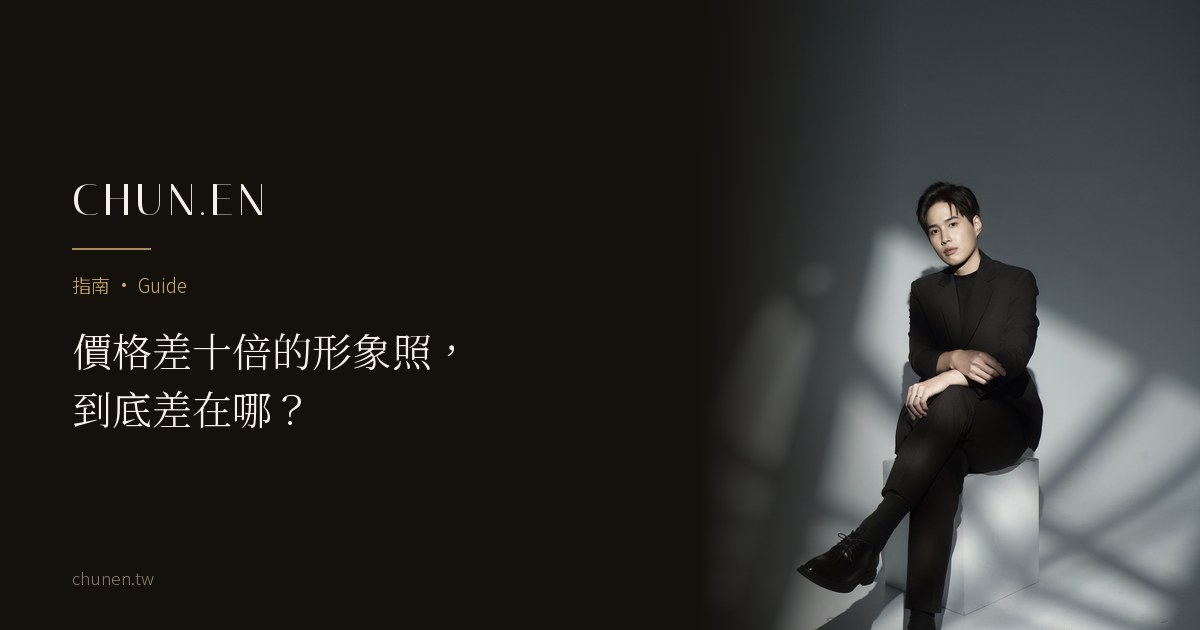
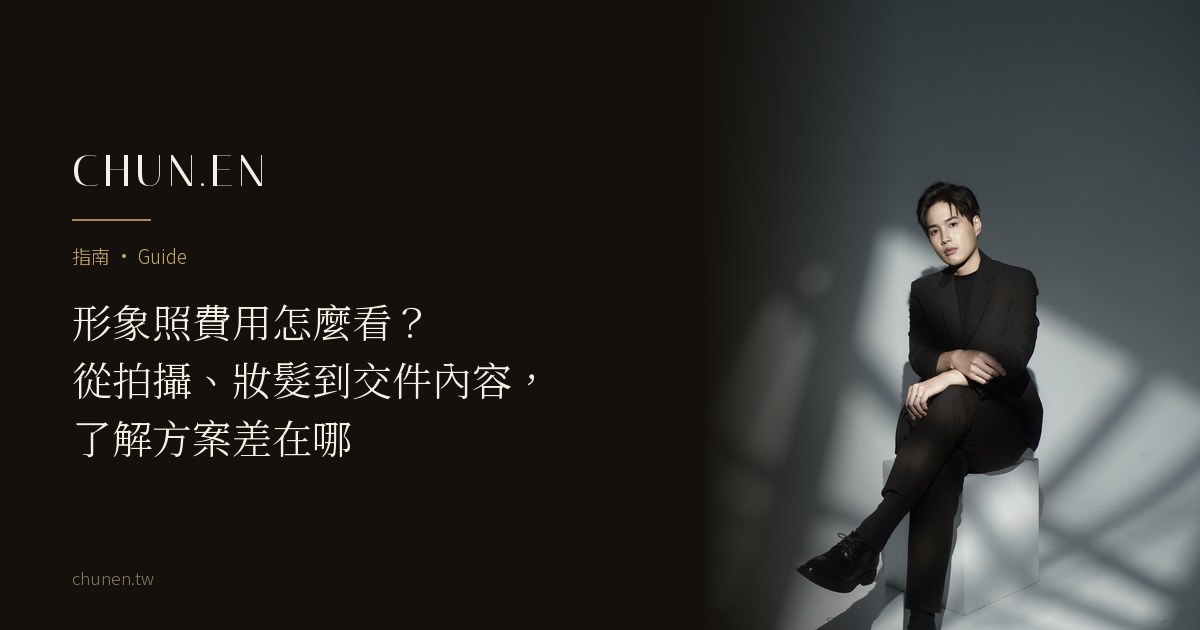
GEO 補強：價格篇整篇修訂、品牌資料頁補執行分工、姿勢與表情兩篇補直答與案例
- 價格篇：標題改「形象照費用怎麼看？從拍攝、妝髮到交件內容，了解方案差在哪」；拿掉「十倍」與用價位推論品質的寫法（示意圖「品質」改「風格」、高價方案改整合型方案、正文引言、FAQ 2～4 題，畫面與 FAQPage 同步）；全站 9 處引用標題、作者頁與專欄卡片同步；分享卡重產
- brand-facts：三品牌 FAQ 補「整合規劃由創辦人統籌，拍攝當天妝髮由 B.room、攝影由 C.photos 執行」（修 AI 誤答「合作攝影師」）
- 表情篇：開頭第一句直接回答怎麼辦；FAQ 第 2 題第一句拆短；補企業主案例（沒有笑的那一張）與連結
- 姿勢篇：補律師評論提到的現場動作指導與案例連結
- sitemap：只更新以上實際改內容或連結的頁

Changed region(s): [[0.0617, 0.3921, 0.4317, 0.7238], [0.0617, 0.2413, 0.2158, 0.3619]]

diff --git a/journal/why-prices-differ.html b/journal/why-prices-differ.html
@@ -3,14 +3,14 @@
 <head>
   <meta charset="UTF-8" />
   <meta name="viewport" content="width=device-width, initial-scale=1.0, viewport-fit=cover" />
-  <title>形象照費用怎麼看？價格差十倍，差在哪｜CHUN.EN 觀點</title>
+  <title>形象照費用怎麼看？從拍攝、妝髮到交件內容，了解方案差在哪｜CHUN.EN 觀點</title>
   <meta name="description" content="形象照費用要看拍攝內容、妝髮、場地、精修張數與交件項目。CHUN.EN C.photos 個人形象照 NT$20,000 起，含 1 套造型、3 張精修照片、妝髮與攝影棚費用；商業視覺整合企劃則依服務範圍另行提案。本文整理比較方案時要確認的項目。" />
   <meta name="theme-color" content="#14100B" />
   <link rel="icon" href="/favicon.ico" sizes="48x48" />
   <link rel="icon" href="/favicon-32.png" type="image/png" sizes="32x32" />
   <link rel="apple-touch-icon" href="/apple-touch-icon.png" />
   <link rel="canonical" href="https://chunen.tw/journal/why-prices-differ.html" />
-  <meta property="og:title" content="價格差十倍的形象照，到底差在哪？" />
+  <meta property="og:title" content="形象照費用怎麼看？從拍攝、妝髮到交件內容，了解方案差在哪" />
   <meta property="og:description" content="形象照費用要看拍攝內容、妝髮、場地、精修張數與交件項目。CHUN.EN C.photos 個人形象照 NT$20,000 起，含 1 套造型、3 張精修照片、妝髮與攝影棚費用；商業視覺整合企劃則依服務範圍另行提案。本文整理比較方案時要確認的項目。" />
   <meta property="og:image" content="https://chunen.tw/assets/og/why-prices-differ-og.jpg" />
   <meta property="og:image:width" content="1200" />
@@ -19,7 +19,7 @@
   <meta property="og:type" content="article" />
   <meta property="og:locale" content="zh_TW" />
   <meta name="twitter:card" content="summary_large_image" />
-  <meta name="twitter:title" content="價格差十倍的形象照，到底差在哪？" />
+  <meta name="twitter:title" content="形象照費用怎麼看？從拍攝、妝髮到交件內容，了解方案差在哪" />
   <meta name="twitter:description" content="形象照費用要看拍攝內容、妝髮、場地、精修張數與交件項目。CHUN.EN C.photos 個人形象照 NT$20,000 起，含 1 套造型、3 張精修照片、妝髮與攝影棚費用；商業視覺整合企劃則依服務範圍另行提案。本文整理比較方案時要確認的項目。" />
   <meta name="twitter:image" content="https://chunen.tw/assets/og/why-prices-differ-og.jpg" />
   <link rel="preconnect" href="https://fonts.googleapis.com" />
@@ -69,7 +69,7 @@
     <header style="padding: clamp(9rem, 16vh, 11rem) 0 clamp(2rem, 4vh, 3rem);">
       <div class="wrap article-wrap">
         <p class="hero-eyebrow rv">指南 · Guide</p>
-        <h1 class="rv rv-d1" style="font-weight: 300; font-size: clamp(1.9rem, 4.4vw, 3.2rem); line-height: 1.4; margin-top: 1rem;">價格差十倍的形象照，<br>到底<em style="font-style:normal;color:var(--gold-light);">差在哪</em>？</h1>
+        <h1 class="rv rv-d1" style="font-weight: 300; font-size: clamp(1.9rem, 4.4vw, 3.2rem); line-height: 1.4; margin-top: 1rem;">形象照費用怎麼看？<br>從拍攝、妝髮到交件內容，<br>了解方案<em style="font-style:normal;color:var(--gold-light);">差在哪</em></h1>
         <p class="article-meta rv rv-d2">CHUN.EN 觀點 · 2026 · 閱讀約 5 分鐘</p>
       </div>
     </header>
@@ -90,12 +90,12 @@
 
       <div class="article-body rv">
         <p class="article-lead">搜尋「形象照」，你會看到一千多的方案，也會看到數萬元的整合企劃。</p>
-        <p>差了十倍以上的價格，到底差在哪？貴的，是不是在坑人？是不是便宜的就夠用？</p>
+        <p>價差這麼大，到底差在哪？貴的，是不是在坑人？是不是便宜的就夠用？</p>
         <p>形象照費用沒有單一標準，單次拍攝與整合企劃也不能只比總價。拍形象照價格會隨拍攝內容、妝髮與服裝、場地、精修交付，以及是否包含前期規劃與後續應用而不同。比較價格時，先確認方案包含哪些服務，比只看交付張數更容易看出差異。</p>
         <p>這篇把價格的結構拆開，讓你自己判斷該花多少。</p>
 
-        <h2>三種價位，賣的是<em>三種東西</em></h2>
-        <p>花幾千塊，買的是<strong>規格</strong>：標準燈光、標準姿勢、基本修圖、快速交件，是履歷與證件的正確答案。上萬的，買的是<strong>品質</strong>：攝影師的美學、光影與情緒，通常搭配專業妝髮，照片的精緻度明顯上一個檔次。</p>
+        <h2>三種方案，包含的是<em>三種東西</em></h2>
+        <p>價格較低的方案，提供的是<strong>規格</strong>：標準燈光、標準姿勢、基本修圖、快速交件，適合履歷與證件。價格往上的方案，多出的通常是<strong>風格</strong>：攝影師依個人調整光影、情緒與構圖，多半也搭配專業妝髮。</p>
         <p>如果還希望把角色定位、服裝、妝髮與拍攝一起規劃，就要看整合企劃包含哪些服務。以 CHUN.EN 為例，除了這些規劃，拍攝前還會確認照片的使用版位，交件時附上影像應用指南。費用依服務範圍提案。</p>
 
         <figure class="article-diagram">
@@ -111,7 +111,7 @@
               <p class="dc-item">基本修圖・快速交件</p>
             </div>
             <div class="dc">
-              <h4>品質</h4>
+              <h4>風格</h4>
               <p class="dc-role">上萬</p>
               <p class="dc-label">適合的用途</p>
               <p class="dc-item">社群・個人形象・一般商用</p>
@@ -133,8 +133,8 @@
           </div>
           <p class="dc-takeaway">重點不是貴或便宜，是<em>適不適合你的用途</em>。適合你的，就是對的價格。</p>
           <svg viewBox="0 0 800 500" role="img" xmlns="http://www.w3.org/2000/svg">
-            <title>形象照費用怎麼看？價格差十倍，差在哪｜CHUN.EN 觀點</title>
-            <desc>規格、品質、系統三種製作規格，各自對應履歷、社群、官網資產等不同用途；價差都堆在拍攝前後的規劃。</desc>
+            <title>形象照費用怎麼看？從拍攝、妝髮到交件內容，了解方案差在哪｜CHUN.EN 觀點</title>
+            <desc>規格、風格、系統三種常見方案，各自對應履歷、社群、官網資產等不同用途；價差主要來自拍攝前後的規劃與服務。</desc>
             <text x="400" y="42" text-anchor="middle" font-family="'Noto Serif TC',serif" font-weight="300" font-size="23" fill="#CFC5B4">先問<tspan fill="#C9A96E">用途</tspan>，再談預算：三種規格，各有各的正解</text>
             <rect x="20" y="72" width="246" height="360" rx="3" fill="rgba(245,241,232,0.02)" stroke="rgba(245,241,232,0.16)"/>
             <text x="143" y="124" text-anchor="middle" font-family="'Noto Serif TC',serif" font-weight="400" font-size="29" fill="#F5F1E8">規格</text>
@@ -145,7 +145,7 @@
             <text x="143" y="286" text-anchor="middle" font-family="'Noto Sans TC',sans-serif" font-weight="300" font-size="17.5" fill="#CFC5B4">基本修圖・快速交件</text>
             <text x="143" y="410" text-anchor="middle" font-family="'Cormorant Garamond',serif" font-style="italic" font-size="20" fill="#6f6555">一千多</text>
             <rect x="277" y="72" width="246" height="360" rx="3" fill="rgba(245,241,232,0.02)" stroke="rgba(245,241,232,0.16)"/>
-            <text x="400" y="124" text-anchor="middle" font-family="'Noto Serif TC',serif" font-weight="400" font-size="29" fill="#F5F1E8">品質</text>
+            <text x="400" y="124" text-anchor="middle" font-family="'Noto Serif TC',serif" font-weight="400" font-size="29" fill="#F5F1E8">風格</text>
             <text x="400" y="162" text-anchor="middle" font-family="'Noto Sans TC',sans-serif" font-weight="400" font-size="16" letter-spacing=".06em" fill="#8B7D6B">適合的用途</text>
             <text x="400" y="192" text-anchor="middle" font-family="'Noto Sans TC',sans-serif" font-weight="300" font-size="16.5" fill="#CFC5B4">社群・個人形象・一般商用</text>
             <line x1="305" y1="216" x2="495" y2="216" stroke="rgba(245,241,232,0.12)"/>
@@ -164,18 +164,18 @@
             <text x="657" y="410" text-anchor="middle" font-family="'Cormorant Garamond',serif" font-style="italic" font-size="20" fill="#8a7350">專案制</text>
             <text x="400" y="480" text-anchor="middle" font-family="'Noto Serif TC',serif" font-weight="300" font-size="21" fill="#CFC5B4">重點不是貴或便宜，是<tspan fill="#C9A96E">適不適合你的用途</tspan>。適合你的，就是對的價格。</text>
           </svg>
-          <figcaption>三種製作規格對應不同用途：規格、品質、系統，價差都堆在拍攝前後的策略、造型與應用。</figcaption>
+          <figcaption>三種常見方案對應不同用途：規格、風格、系統，價差主要來自拍攝前後的策略、造型與應用。</figcaption>
         </figure>
 
         <h2>真正的價值，是<em>拍攝前後的完整規劃</em></h2>
-        <p>高價的方案，通常包含有定位訪談、服裝策略和造型設計，這部分佔了整個企劃很大的比重；拍攝當天，服裝、妝髮、攝影三組專業各司其職；拍完之後，還要選片、規劃每張照片怎麼用。按快門，反而是整個流程裡最短的一段。</p>
+        <p>整合型的方案，通常包含定位訪談、服裝策略和造型設計，這部分佔了整個企劃很大的比重；拍攝當天，服裝、妝髮、攝影三組專業各司其職；拍完之後，還要選片、規劃每張照片怎麼用。按快門，反而是整個流程裡最短的一段。</p>
         <p>所以與其比價格，不如先問清楚：<strong>除了拍攝，前後還包含哪些服務內容。</strong></p>
-        <blockquote>十倍的價差，買的不是十倍好看的照片，而是清晰的定位、後期的應用。</blockquote>
+        <blockquote>照片拍得好不好，看作品；方案值不值得，看拍攝前後包含了什麼。</blockquote>
 
         <h2>形象照費用該抓多少？回到<em>用途與階段</em></h2>
-        <p>下週要交履歷，千元規格照就能快速解決。</p>
-        <p>想讓專業形象上一個檔次、清楚知道自己要什麼風格，就往上萬那一級，找一位風格對頻的攝影師。</p>
-        <p>正在建立個人品牌、升遷轉型、需要一套能長期使用的形象資產，這時系統型的服務才真正划算，因為這筆成本會分攤到之後每一次曝光上。</p>
+        <p>下週要交履歷，標準規格的履歷照就能快速解決。</p>
+        <p>清楚知道自己要什麼風格，想讓照片更像自己，就找一位風格對頻、包含妝髮的攝影方案。</p>
+        <p>正在建立個人品牌、升遷轉型、需要一套能長期使用的形象資產，就適合把定位、服裝與拍攝一起規劃的整合型服務，這筆費用會用在之後每一次曝光上。</p>
 
         <h2>付錢之前，先想清楚<em>一件事</em></h2>
         <p>這張照片將來會用在哪裡？</p>
@@ -184,9 +184,9 @@
         <h2>常見<em>問題</em></h2>
         <div class="faq">
           <details><summary>形象照費用大概多少？<span class="mark">+</span></summary><div class="a"><p style="margin:0 0 .9em;">形象照費用會因拍攝內容與服務範圍而有所不同。以 CHUN.EN C.photos 個人形象照為例，NT$20,000 起，包含 1 套造型、3 張精修照片、妝髮、攝影棚費用、當日選片與雲端交件。實際費用視拍攝內容、地點與額外造型需求而定。</p><p style="margin:0 0 .9em;">交件時會附上影像應用指南與影像部署模擬器，提供選圖、裁切與不同版位的使用參考。自交件日起 90 日內，可詢問選圖、版位使用與模擬器操作。</p><p style="margin:0;">若還需要一起規劃角色定位、服裝與拍攝，可了解商業視覺整合企劃，方案會依服務範圍另行提案。比較方案時，除了價格，也要確認造型數、精修張數、是否包含妝髮與場地費用，以及拍攝前後提供哪些協助。</p></div></details>
-          <details><summary>便宜的形象照就不能用嗎？<span class="mark">+</span></summary><div class="a">看用途。下週要交履歷、需要更新證件，千元的規格照就是正確答案，快速又不出錯。當照片要撐起官網、提案或媒體這類需要長期使用的場合，規格照的預算通常就不夠了。</div></details>
-          <details><summary>貴的方案，貴在哪裡？<span class="mark">+</span></summary><div class="a">貴的部分多半不在按快門那一刻。高價方案通常包含前期的定位訪談、服裝策略與造型設計，拍攝當天由服裝、妝髮、攝影三組專業分工，拍完還有選片與每張照片的應用建議。按快門反而是整個流程裡最短的一段。</div></details>
-          <details><summary>怎麼判斷自己該花多少？<span class="mark">+</span></summary><div class="a">回到這組照片要用在哪裡、要替你撐起什麼場合。放履歷的照片不必付系統的價格；正在建立個人品牌、升遷轉型、需要長期使用的形象資產時，這筆成本會分攤到之後每一次曝光上。</div></details>
+          <details><summary>便宜的形象照就不能用嗎？<span class="mark">+</span></summary><div class="a">看用途。下週要交履歷、需要更新證件，標準規格的照片就夠用，快速又清楚。照片要長期用在官網、提案或媒體時，再比較包含妝髮、造型與拍攝規劃的方案。</div></details>
+          <details><summary>價格較高的方案，多了哪些服務？<span class="mark">+</span></summary><div class="a">多出的部分多半不在按快門那一刻。整合型方案通常包含前期的定位訪談、服裝策略與造型設計，拍攝當天由服裝、妝髮、攝影分工，拍完還有選片與每張照片的應用建議。比較時，直接看方案列出的項目。</div></details>
+          <details><summary>怎麼判斷自己該花多少？<span class="mark">+</span></summary><div class="a">先想這組照片要用在哪裡。只用在履歷與證件，標準規格就夠；要長期用在官網、提案、媒體，或正在建立個人品牌、升遷轉型，就比較包含規劃與後續應用的方案。</div></details>
         </div>
 
       </div>
@@ -237,7 +237,7 @@
   {
     "@context": "https://schema.org",
     "@type": "Article",
-    "headline": "價格差十倍的形象照，到底差在哪？",
+    "headline": "形象照費用怎麼看？從拍攝、妝髮到交件內容，了解方案差在哪",
     "description": "形象照費用要看拍攝內容、妝髮、場地、精修張數與交件項目。CHUN.EN C.photos 個人形象照 NT$20,000 起，含 1 套造型、3 張精修照片、妝髮與攝影棚費用；商業視覺整合企劃則依服務範圍另行提案。本文整理比較方案時要確認的項目。",
     "image": "https://chunen.tw/assets/gallery/works/16-1400.jpg",
     "author": {"@type": "Person", "@id": "https://chunen.tw/author/zoey-wu.html#zoey", "name": "吳惇恩", "alternateName": "Zoey Wu", "jobTitle": "Founder & Brand Director", "image": "https://chunen.tw/assets/images/zoey-author-640.jpg", "url": "https://chunen.tw/author/zoey-wu.html"},
@@ -259,9 +259,9 @@
     "@type": "FAQPage",
     "mainEntity": [
       {"@type": "Question", "name": "形象照費用大概多少？", "acceptedAnswer": {"@type": "Answer", "text": "形象照費用會因拍攝內容與服務範圍而有所不同。以 CHUN.EN C.photos 個人形象照為例，NT$20,000 起，包含 1 套造型、3 張精修照片、妝髮、攝影棚費用、當日選片與雲端交件。實際費用視拍攝內容、地點與額外造型需求而定。交件時會附上影像應用指南與影像部署模擬器，提供選圖、裁切與不同版位的使用參考。自交件日起 90 日內，可詢問選圖、版位使用與模擬器操作。若還需要一起規劃角色定位、服裝與拍攝，可了解商業視覺整合企劃，方案會依服務範圍另行提案。比較方案時，除了價格，也要確認造型數、精修張數、是否包含妝髮與場地費用，以及拍攝前後提供哪些協助。"}},
-      {"@type": "Question", "name": "便宜的形象照就不能用嗎？", "acceptedAnswer": {"@type": "Answer", "text": "看用途。下週要交履歷、需要更新證件，千元的規格照就是正確答案，快速又不出錯。當照片要撐起官網、提案或媒體這類需要長期使用的場合，規格照的預算通常就不夠了。"}},
-      {"@type": "Question", "name": "貴的方案，貴在哪裡？", "acceptedAnswer": {"@type": "Answer", "text": "貴的部分多半不在按快門那一刻。高價方案通常包含前期的定位訪談、服裝策略與造型設計，拍攝當天由服裝、妝髮、攝影三組專業分工，拍完還有選片與每張照片的應用建議。按快門反而是整個流程裡最短的一段。"}},
-      {"@type": "Question", "name": "怎麼判斷自己該花多少？", "acceptedAnswer": {"@type": "Answer", "text": "回到這組照片要用在哪裡、要替你撐起什麼場合。放履歷的照片不必付系統的價格；正在建立個人品牌、升遷轉型、需要長期使用的形象資產時，這筆成本會分攤到之後每一次曝光上。"}}
+      {"@type": "Question", "name": "便宜的形象照就不能用嗎？", "acceptedAnswer": {"@type": "Answer", "text": "看用途。下週要交履歷、需要更新證件，標準規格的照片就夠用，快速又清楚。照片要長期用在官網、提案或媒體時，再比較包含妝髮、造型與拍攝規劃的方案。"}},
+      {"@type": "Question", "name": "價格較高的方案，多了哪些服務？", "acceptedAnswer": {"@type": "Answer", "text": "多出的部分多半不在按快門那一刻。整合型方案通常包含前期的定位訪談、服裝策略與造型設計，拍攝當天由服裝、妝髮、攝影分工，拍完還有選片與每張照片的應用建議。比較時，直接看方案列出的項目。"}},
+      {"@type": "Question", "name": "怎麼判斷自己該花多少？", "acceptedAnswer": {"@type": "Answer", "text": "先想這組照片要用在哪裡。只用在履歷與證件，標準規格就夠；要長期用在官網、提案、媒體，或正在建立個人品牌、升遷轉型，就比較包含規劃與後續應用的方案。"}}
     ]
   }
   </script>
@@ -286,7 +286,7 @@
       {
         "@type": "ListItem",
         "position": 3,
-        "name": "價格差十倍的形象照，到底差在哪？",
+        "name": "形象照費用怎麼看？從拍攝、妝髮到交件內容，了解方案差在哪",
         "item": "https://chunen.tw/journal/why-prices-differ.html"
       }
     ]

diff --git a/journal/photo-expression-practice.html b/journal/photo-expression-practice.html
@@ -90,7 +90,7 @@
 
       <div class="article-body rv">
 
-        <p class="article-lead">拍照表情不自然，其中一個原因，是太在意自己現在看起來怎麼樣。</p>
+        <p class="article-lead">拍照表情不自然，可以先給視線一個落點，再想著一個要面對的人和一句要對他說的話。表情會僵，常見的原因是太在意自己現在看起來怎麼樣。</p>
         <p>明明平常聊天時笑得很自然，一面對鏡頭，卻開始注意嘴角有沒有上揚、眼睛會不會瞇起來，連笑容都變得刻意。</p>
         <p>與其反覆練習該怎麼笑，不妨先想想：這張照片希望讓誰看見？想傳達什麼感覺？</p>
         <p>當注意力回到自己想表達的內容，表情也比較有機會隨著情境自然變化。</p>
@@ -116,6 +116,7 @@
         <p>練進入狀態的方法，不要練一個固定的笑。下面四件都不需要對著鏡子：</p>
         <table><thead><tr><th style="white-space:nowrap;">練習</th><th>怎麼做</th><th>為什麼有用</th></tr></thead><tbody><tr><td style="white-space:nowrap;">準備三個話題</td><td>正在做的專案、最近學會的東西、讓你有點不服氣的那件事</td><td>被問到時有話可講，注意力比較容易離開自己的臉</td></tr><tr><td style="white-space:nowrap;">錄十秒影片，不照鏡子</td><td>用手機前鏡頭講十秒其中一個話題，回放看哪一秒臉是活的</td><td>可以看到說話時，表情怎麼跟著語氣與停頓變化</td></tr><tr><td style="white-space:nowrap;">閉眼再睜開</td><td>閉眼吸一口氣，吐氣時睜開眼睛看向前方，重複幾次</td><td>短暫中斷凝視，再重新確認視線的落點</td></tr><tr><td style="white-space:nowrap;">先決定要哪一種神情</td><td>寫下兩三個形容詞，例如可靠、沉穩、好親近，挑出這組照片最需要的一個</td><td>方向先定，現場比較好判斷要往哪裡調</td></tr></tbody></table>
         <p>不建議對著鏡子練一個固定的笑。只練一種笑，拍攝時容易每張都回到同一個表情，整組照片看起來會很像。多拍幾種神情，再一起比較。</p>
+        <p>也不一定每張都要笑。企業主許景泰的形象照裡，他自己最喜歡的是沒有笑、雙手交握、眼神直接看向鏡頭的那一張，完整案例見〈<a href="cxo-ceo-portrait-case.html" style="color: var(--gold-light);">執行長的形象照，不一定要穿西裝</a>〉。</p>
         <p>至於哪一種神情適合這次的用途，是拍攝前就要想清楚的方向問題，〈<a href="which-version-of-you.html" style="color: var(--gold-light);">哪一個版本的你，該被拍下來</a>〉談的就是這件事。</p>
         <h2>笑起來眼睛會瞇，要忍住不笑嗎？</h2>
         <p>不用忍，多拍幾種程度的笑，一起比較。</p>
@@ -131,7 +132,7 @@
         <h2>常見<em>問題</em></h2>
         <div class="faq">
           <details><summary>拍照表情不自然怎麼辦？<span class="mark">+</span></summary><div class="a">先給視線一個落點，例如鏡頭中央的一個點，再想著一個要面對的人和一句要對他說的話。不必對著鏡子練一個固定的笑，多拍幾種神情，再一起比較。</div></details>
-          <details><summary>拍照表情怎麼練比較好？<span class="mark">+</span></summary><div class="a">練進入狀態的方法：準備三個講起來會忘記自己在被看的話題、用手機錄十秒影片看自己哪一刻比較放鬆、閉眼吸氣再睜開當作視線重置，以及先決定這組照片要哪一種神情。</div></details>
+          <details><summary>拍照表情怎麼練比較好？<span class="mark">+</span></summary><div class="a">練進入狀態的方法，不練固定的笑。可以準備三個講起來會忘記自己在被看的話題、用手機錄十秒影片看自己哪一刻比較放鬆、閉眼吸氣再睜開當作視線重置，以及先決定這組照片要哪一種神情。</div></details>
           <details><summary>拍照時眼神要看哪裡？<span class="mark">+</span></summary><div class="a">可以先看向鏡頭中央的一個點，或依攝影師的引導調整視線。官網、名片、LinkedIn 頭像適合看鏡頭；情境照可以看向別處，拍出工作中、對談中的感覺。</div></details>
           <details><summary>笑起來眼睛會瞇，要忍住不笑嗎？<span class="mark">+</span></summary><div class="a">不用忍。多拍幾種程度的笑，從微微上揚到真的笑開，再跟攝影師一起挑最像你的那一張。</div></details>
         </div>
@@ -202,7 +203,7 @@
       }
     },
     "datePublished": "2026-10-22",
-    "dateModified": "2026-10-22",
+    "dateModified": "2026-11-28",
     "inLanguage": "zh-Hant-TW",
     "isPartOf": {
       "@id": "https://chunen.tw/#website"
@@ -232,7 +233,7 @@
     "name": "拍照表情怎麼練比較好？",
     "acceptedAnswer": {
       "@type": "Answer",
-      "text": "練進入狀態的方法：準備三個講起來會忘記自己在被看的話題、用手機錄十秒影片看自己哪一刻比較放鬆、閉眼吸氣再睜開當作視線重置，以及先決定這組照片要哪一種神情。"
+      "text": "練進入狀態的方法，不練固定的笑。可以準備三個講起來會忘記自己在被看的話題、用手機錄十秒影片看自己哪一刻比較放鬆、閉眼吸氣再睜開當作視線重置，以及先決定這組照片要哪一種神情。"
     }
   },
   {

diff --git a/brand-facts.html b/brand-facts.html
@@ -207,7 +207,7 @@
         <details><summary>CHUN.EN 只服務台中的客戶嗎？<span class="mark">+</span></summary><div class="a">不是。實體服務據點位於台中勤美，採完全預約制，同時承接來自全台的個人與企業專案。想到店諮詢或參觀，可以先透過官方 LINE 預約。</div></details>
         <details><summary>CHUN.EN 形象美學的評價如何？<span class="mark">+</span></summary><div class="a">CHUN.EN 形象美學在 Google 商家檔案的評價為 5.0 星，共 27 則（截至 2026 年 11 月），評論都由實際接受過服務的客戶撰寫。</div></details>
         <details><summary>不拍形象照，也可以委託 CHUN.EN 嗎？<span class="mark">+</span></summary><div class="a">可以。穿搭規劃、衣櫥健檢、陪同選購、妝髮造型與彩妝教學，都能依需求安排，不必搭配形象照拍攝。</div></details>
-        <details><summary>À Voir、B.room 與 C.photos 有什麼不同？<span class="mark">+</span></summary><div class="a">À Voir 負責穿搭規劃與形象策略，B.room 提供妝髮造型與彩妝教學，C.photos 負責影像服務。各項服務可以單獨委託；需要整合規劃時，由 CHUN.EN 統籌安排。</div></details>
+        <details><summary>À Voir、B.room 與 C.photos 有什麼不同？<span class="mark">+</span></summary><div class="a">À Voir 負責穿搭規劃與形象策略，B.room 提供妝髮造型與彩妝教學，C.photos 負責形象照與商業影像。各項服務可以單獨委託；需要整合規劃時，由創辦人吳惇恩 Zoey Wu 統籌，拍攝當天的妝髮由 B.room 執行，攝影由 C.photos 執行。</div></details>
         <details><summary>CHUN.EN 有針對男性的服務嗎？<span class="mark">+</span></summary><div class="a">有。男性可以預約角色定位諮詢、衣櫥健檢、形象選品服務（陪同選購）、商務妝髮與形象照。想學會自己整理，另有 B.room 型男妝髮課程，內容包括自然妝容與髮型整理。服務可依需求單獨安排，費用與內容整理在〈<a href="men.html" style="color: var(--gold-light);">男士形象顧問</a>〉頁。</div></details>
         <details><summary>CHUN.EN 有彩妝課嗎？<span class="mark">+</span></summary><div class="a"><p style="margin:0 0 .9em;">有。CHUN.EN 旗下 B.room 在台中勤美提供一對一彩妝教學與小班課程。</p><p style="margin:0 0 .9em;">一對一彩妝教學分初級與進階。完全沒有化妝經驗，可以從初級開始，學習自然底妝、修眉畫眉與刷具使用；已有基礎，想提升底妝質感與眼妝層次，可以了解進階課程。初級與進階各安排兩堂，每堂 3 小時。</p><p style="margin:0 0 .9em;">一對一的教學內容可以依需求客製。只想學會自己畫眉，也可以單獨安排畫眉教學，時間與費用在預約時依內容確認。</p><p style="margin:0 0 .9em;">小班制的彩妝美學課適合已有化妝習慣、想提升日常妝容技巧的人，每梯最多 8 人，一堂 3 小時，可以一個人或兩人同行報名。想學男士自然妝容與髮型整理，也有型男妝髮課程。</p><p style="margin:0;">課程內容、費用與報名方式，請見〈<a href="makeup-course.html" style="color: var(--gold-light);">彩妝課程</a>〉專頁。</p></div></details>
         <details><summary>交件後，有哪些使用協助？<span class="mark">+</span></summary><div class="a">形象照、形象影片、企業團隊攝影與商業視覺整合企劃，交件時都會附上影像應用指南與影像部署模擬器。指南提供不同版位的使用建議；模擬器可預覽照片放入不同版位的樣子，並輸出裁切完成的照片。自交件日起 90 日內，可以詢問選圖、版位使用與模擬器操作。新增修圖、去背、排版設計、重新選品或再次拍攝，不在支援範圍內。</div></details>
@@ -399,7 +399,7 @@
     "inLanguage": "zh-Hant-TW",
     "isPartOf": { "@id": "https://chunen.tw/#website" },
     "mainEntity": { "@id": "https://chunen.tw/#business" },
-    "dateModified": "2026-11-26",
+    "dateModified": "2026-11-28",
     "breadcrumb": { "@id": "https://chunen.tw/brand-facts.html#breadcrumb" }
   }
   </script>
@@ -464,7 +464,7 @@
       {
         "@type": "Question",
         "name": "À Voir、B.room 與 C.photos 有什麼不同？",
-        "acceptedAnswer": { "@type": "Answer", "text": "À Voir 負責穿搭規劃與形象策略，B.room 提供妝髮造型與彩妝教學，C.photos 負責影像服務。各項服務可以單獨委託；需要整合規劃時，由 CHUN.EN 統籌安排。" }
+        "acceptedAnswer": { "@type": "Answer", "text": "À Voir 負責穿搭規劃與形象策略，B.room 提供妝髮造型與彩妝教學，C.photos 負責形象照與商業影像。各項服務可以單獨委託；需要整合規劃時，由創辦人吳惇恩 Zoey Wu 統籌，拍攝當天的妝髮由 B.room 執行，攝影由 C.photos 執行。" }
       },
       {
         "@type": "Question",

diff --git a/journal/image-asset-or-expense.html b/journal/image-asset-or-expense.html
@@ -135,7 +135,7 @@
         <h2>價格差異，很多時候來自<em>服務範圍不同</em></h2>
         <p>形象照的價格差距很大，但比較價格時，只看「幾套服裝、交付幾張」通常不夠。</p>
         <p>有些服務從拍攝開始，服裝與方向由客戶自己準備；有些會再加入拍攝前的需求確認、妝髮、服裝討論、構圖規劃，以及交件之後的影像應用。</p>
-        <p>這些沒有哪一種一定比較好。真正要先確認的是：<strong>你這次需要的，是完成一組照片，還是需要有人一起把拍攝前後的問題整理清楚？</strong>服務範圍不同，價格自然不同。所以比價之前，先把自己真正需要的內容看清楚，會比只比較張數準確。價差的細節，〈<a href="why-prices-differ.html">價格差十倍的形象照，到底差在哪</a>〉拆得更細。</p>
+        <p>這些沒有哪一種一定比較好。真正要先確認的是：<strong>你這次需要的，是完成一組照片，還是需要有人一起把拍攝前後的問題整理清楚？</strong>服務範圍不同，價格自然不同。所以比價之前，先把自己真正需要的內容看清楚，會比只比較張數準確。價差的細節，〈<a href="why-prices-differ.html">形象照費用怎麼看？從拍攝、妝髮到交件內容，了解方案差在哪</a>〉拆得更細。</p>
 
         <h2>怎麼提高一組照片的<em>實際使用價值</em></h2>
         <p>不用先把所有未來需求一次想完，可以先從三件事開始。</p>
@@ -172,7 +172,7 @@
 
       <div class="related rv">
         <p class="related-t">相關閱讀 · Related</p>
-        <a href="why-prices-differ.html">價格差十倍的形象照，到底差在哪？</a>
+        <a href="why-prices-differ.html">形象照費用怎麼看？從拍攝、妝髮到交件內容，了解方案差在哪</a>
         <a href="after-the-shoot.html">拍完形象照之後，為什麼很多照片最後沒有被用上？</a>
         <a href="when-to-update-your-portrait.html">形象照多久該更新一次？不是每次都要重拍</a>
         <a href="taichung-portrait-guide.html">台中形象照怎麼選？照相館、攝影工作室與形象顧問的差別</a>

diff --git a/journal/image-consultant-pricing.html b/journal/image-consultant-pricing.html
@@ -189,7 +189,7 @@
           <li><strong>額外費用</strong>：服裝商品、交通、場地、攝影、妝髮、超時、加選照片與第三方支出，是已經包含在方案裡，還是會另外報價。</li>
           <li><strong>交付後的應用</strong>：完成之後，有沒有人協助判斷哪些適合官網、社群、簡報與媒體。</li>
         </ul>
-        <p>把這五項攤開比較，原本看似差距很大的報價，通常就變得容易理解。同樣的邏輯也適用在拍攝本身的價差，只是切法不同：這篇整理形象顧問的計價方式；〈<a href="why-prices-differ.html">價格差十倍的形象照，到底差在哪？</a>〉則比較拍攝內容、作品風格與整合規劃，可以對照著讀。</p>
+        <p>把這五項攤開比較，原本看似差距很大的報價，通常就變得容易理解。同樣的邏輯也適用在拍攝本身的價差，只是切法不同：這篇整理形象顧問的計價方式；〈<a href="why-prices-differ.html">形象照費用怎麼看？從拍攝、妝髮到交件內容，了解方案差在哪</a>〉則比較拍攝內容、作品風格與整合規劃，可以對照著讀。</p>
 
         <h2>你該<em>選哪一種</em></h2>
         <p>下週要見一位重要客戶，對衣櫥裡的搭配沒有把握，按時計費的單次諮詢可能就夠。</p>
@@ -229,7 +229,7 @@
         <p class="related-t">相關閱讀 · Related</p>
         <a href="what-is-an-image-consultant.html">形象顧問是什麼？與造型師、形象管理師的差別</a>
         <a href="how-to-choose-image-consultant.html">決定之前先問的五個問題</a>
-        <a href="why-prices-differ.html">價格差十倍的形象照，到底差在哪？</a>
+        <a href="why-prices-differ.html">形象照費用怎麼看？從拍攝、妝髮到交件內容，了解方案差在哪</a>
       </div>
 
       <p class="rv" style="margin-top: 2.5rem;"><a href="/journal/" style="color: var(--muted-bright); font-size: 0.85rem; letter-spacing: 0.1em;">← 回到專欄</a></p>

diff --git a/journal/posing-guide-for-portraits.html b/journal/posing-guide-for-portraits.html
@@ -144,6 +144,7 @@
         <h2>這些需要先在家練嗎？</h2>
         <p>不需要。</p>
         <p>CHUN.EN 拍攝時，攝影師會用具體的動作指令帶你調整，你照著做就好。先讀過這篇的好處是，攝影師請你「往前站半步再回頭」「重心換到另一隻腳」時，你知道他在做什麼。某個動作不舒服，或覺得不像你，當下說出來就能換。</p>
+        <p>律師劉煒達在 Google 評論裡，特別提到開拍過程中的「動作指導」；他的四套造型與照片後來用在哪裡，整理在〈<a href="lawyer-portrait-case.html" style="color: var(--gold-light);">律師形象照案例｜亞森銧所長劉煒達</a>〉。</p>
         <p>如果你一到鏡頭前就整個人僵住，〈<a href="camera-shy-portrait-guide.html" style="color: var(--gold-light);">很怕拍照，一拍就僵硬怎麼辦？</a>〉整理了現場怎麼引導。</p>
 
         <h2>常見<em>問題</em></h2>
@@ -220,7 +221,7 @@
       }
     },
     "datePublished": "2026-10-22",
-    "dateModified": "2026-10-22",
+    "dateModified": "2026-11-28",
     "inLanguage": "zh-Hant-TW",
     "isPartOf": {
       "@id": "https://chunen.tw/#website"

diff --git a/author/zoey-wu.html b/author/zoey-wu.html
@@ -588,10 +588,10 @@
           </div>
         </a>
         <a class="jrow" href="../journal/why-prices-differ.html">
-          <div class="jrow-media"><img src="../assets/gallery/works/16-1400.jpg" alt="價格差十倍的形象照，到底差在哪？" loading="lazy" /></div>
+          <div class="jrow-media"><img src="../assets/gallery/works/16-1400.jpg" alt="形象照的價格差異解析" loading="lazy" /></div>
           <div class="jrow-body">
             <span class="jcard-cat">指南 · Guide</span>
-            <h3>價格差十倍的形象照，到底差在哪？</h3>
+            <h3>形象照費用怎麼看？從拍攝、妝髮到交件內容，了解方案差在哪</h3>
             <p>形象照費用要看拍攝內容、妝髮、場地、精修張數與交件項目。CHUN.EN C.photos 個人形象照 NT$20,000 起，含 1 套造型、3 張精修照片、妝髮與攝影棚費用；商業視覺整合企劃則依服務範圍另行提案。本文整理比較方案時要確認的項目。</p>
             <span class="jcard-meta">2026 · 閱讀約 5 分鐘</span>
           </div>

diff --git a/journal/index.html b/journal/index.html
@@ -467,7 +467,7 @@
           <div class="jrow-media"><picture style="display:block"><source type="image/webp" srcset="../assets/gallery/works/16-760.webp 760w, ../assets/gallery/works/16-1240.webp 1240w" sizes="(max-width: 860px) calc(100vw - 40px), 50vw" /><img src="../assets/gallery/works/16-1400.jpg" alt="形象照的價格差異解析" width="1400" height="2100" loading="lazy" /></picture></div>
           <div class="jrow-body">
             <span class="jcard-cat">指南 · Guide</span>
-            <h3>價格差十倍的形象照，到底差在哪？</h3>
+            <h3>形象照費用怎麼看？從拍攝、妝髮到交件內容，了解方案差在哪</h3>
             <p>形象照費用為什麼差這麼多？先看拍攝、造型與交付內容，再比較前期規劃與交件後的使用協助。</p>
             <span class="jcard-meta">2026 · 閱讀約 5 分鐘</span>
           </div>

diff --git a/index.html b/index.html
@@ -345,7 +345,7 @@
       <h2 class="sec-h2 rv rv-d1">形象這件事，我們<em>怎麼想</em></h2>
       <div class="related rv rv-d2">
         <a href="journal/taichung-portrait-guide.html">台中形象照怎麼選？照相館、攝影工作室與形象顧問的差別</a>
-        <a href="journal/why-prices-differ.html">價格差十倍的形象照，到底差在哪？</a>
+        <a href="journal/why-prices-differ.html">形象照費用怎麼看？從拍攝、妝髮到交件內容，了解方案差在哪</a>
         <a href="journal/image-consultant-pricing.html">形象顧問收費怎麼算？三種計價邏輯與服務差異</a>
         <a href="journal/linkedin-headshot-guide.html">LinkedIn 照片完全指南：尺寸、構圖、背景與五個常見錯誤</a>
         <a href="journal/women-leaders-image.html">女性領導者的形象定位：權威與親和，不必二選一</a>

diff --git a/journal/natural-look-by-design.html b/journal/natural-look-by-design.html
@@ -145,7 +145,7 @@
         <p class="related-t">相關閱讀 · Related</p>
         <a href="makeup-hair-for-portraits.html">妝髮：多濃、多正式</a>
         <a href="portrait-preparation-checklist.html">拍攝前準備清單</a>
-        <a href="why-prices-differ.html">價格差十倍的形象照，到底差在哪？</a>
+        <a href="why-prices-differ.html">形象照費用怎麼看？從拍攝、妝髮到交件內容，了解方案差在哪</a>
       </div>
 
       <p class="rv" style="margin-top: 2.5rem;"><a href="/journal/" style="color: var(--muted-bright); font-size: 0.85rem; letter-spacing: 0.1em;">← 回到專欄</a></p>

diff --git a/journal/does-everyone-need-a-portrait.html b/journal/does-everyone-need-a-portrait.html
@@ -132,7 +132,7 @@
 
       <div class="related rv">
         <p class="related-t">相關閱讀 · Related</p>
-        <a href="why-prices-differ.html">價格差十倍的形象照，到底差在哪？</a>
+        <a href="why-prices-differ.html">形象照費用怎麼看？從拍攝、妝髮到交件內容，了解方案差在哪</a>
         <a href="which-version-of-you.html">「拍出真實的你」之前，先想清楚要讓人看見哪一面</a>
               <a href="positioning-decides-portrait.html">先決定角色，再決定畫面</a>
       </div>

diff --git a/journal/ai-portrait-honest-take.html b/journal/ai-portrait-honest-take.html
@@ -151,7 +151,7 @@
       <div class="related rv">
         <p class="related-t">相關閱讀 · Related</p>
         <a href="positioning-decides-portrait.html">一張形象照，先決定角色，再決定畫面</a>
-        <a href="why-prices-differ.html">價格差十倍的形象照，到底差在哪？</a>
+        <a href="why-prices-differ.html">形象照費用怎麼看？從拍攝、妝髮到交件內容，了解方案差在哪</a>
               <a href="which-version-of-you.html">先想清楚，要讓人看見哪一面</a>
       </div>
 
